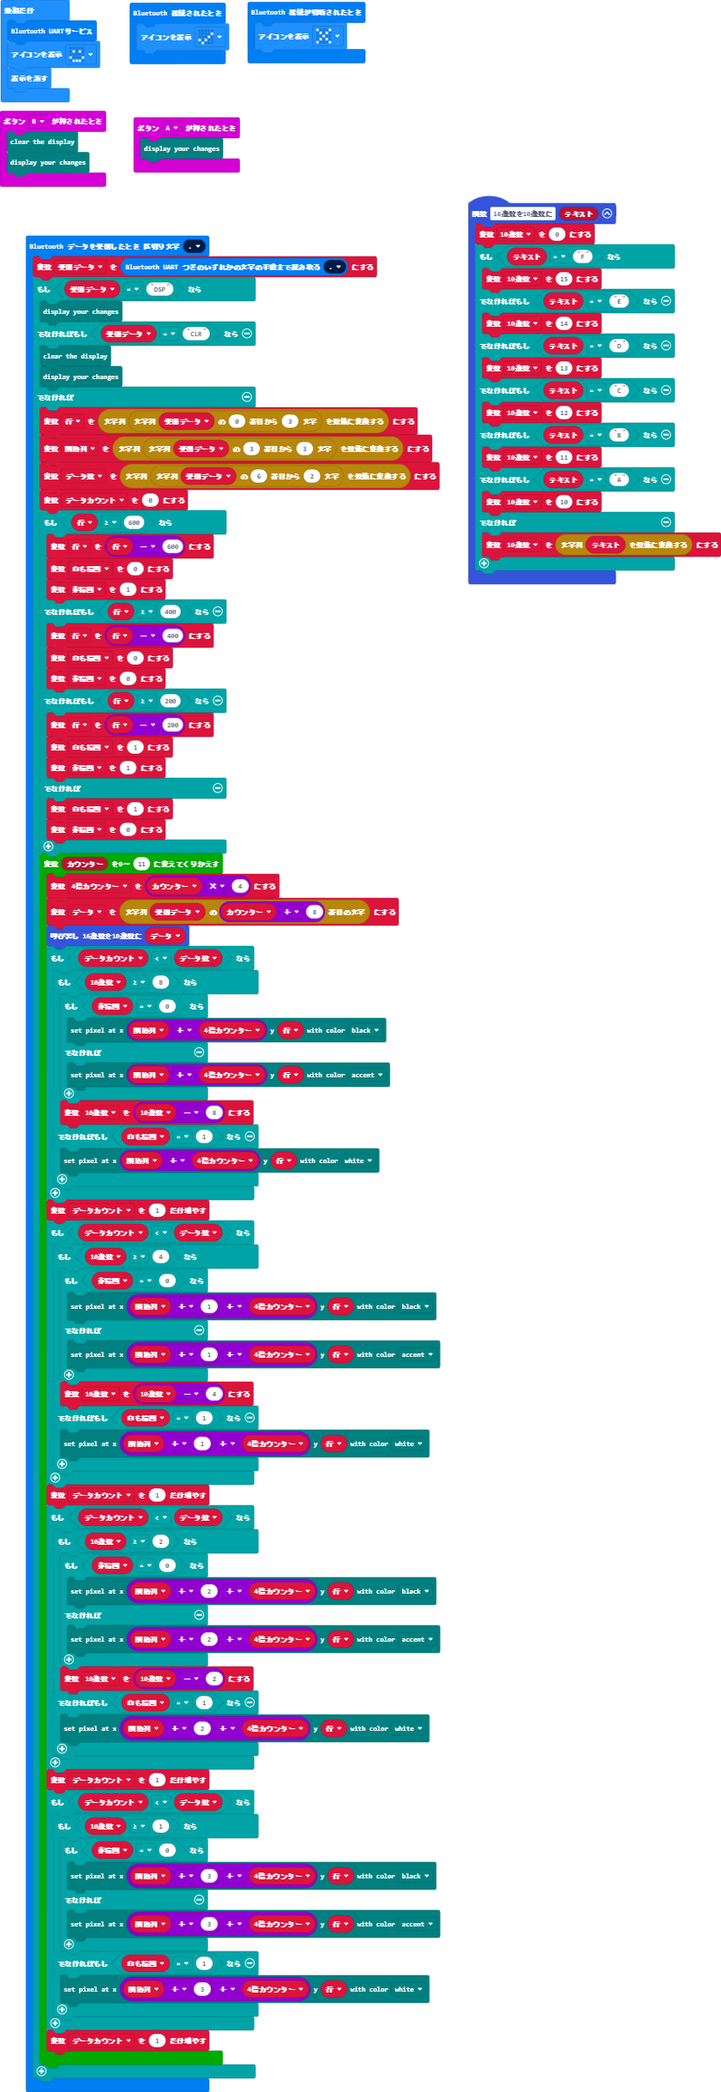
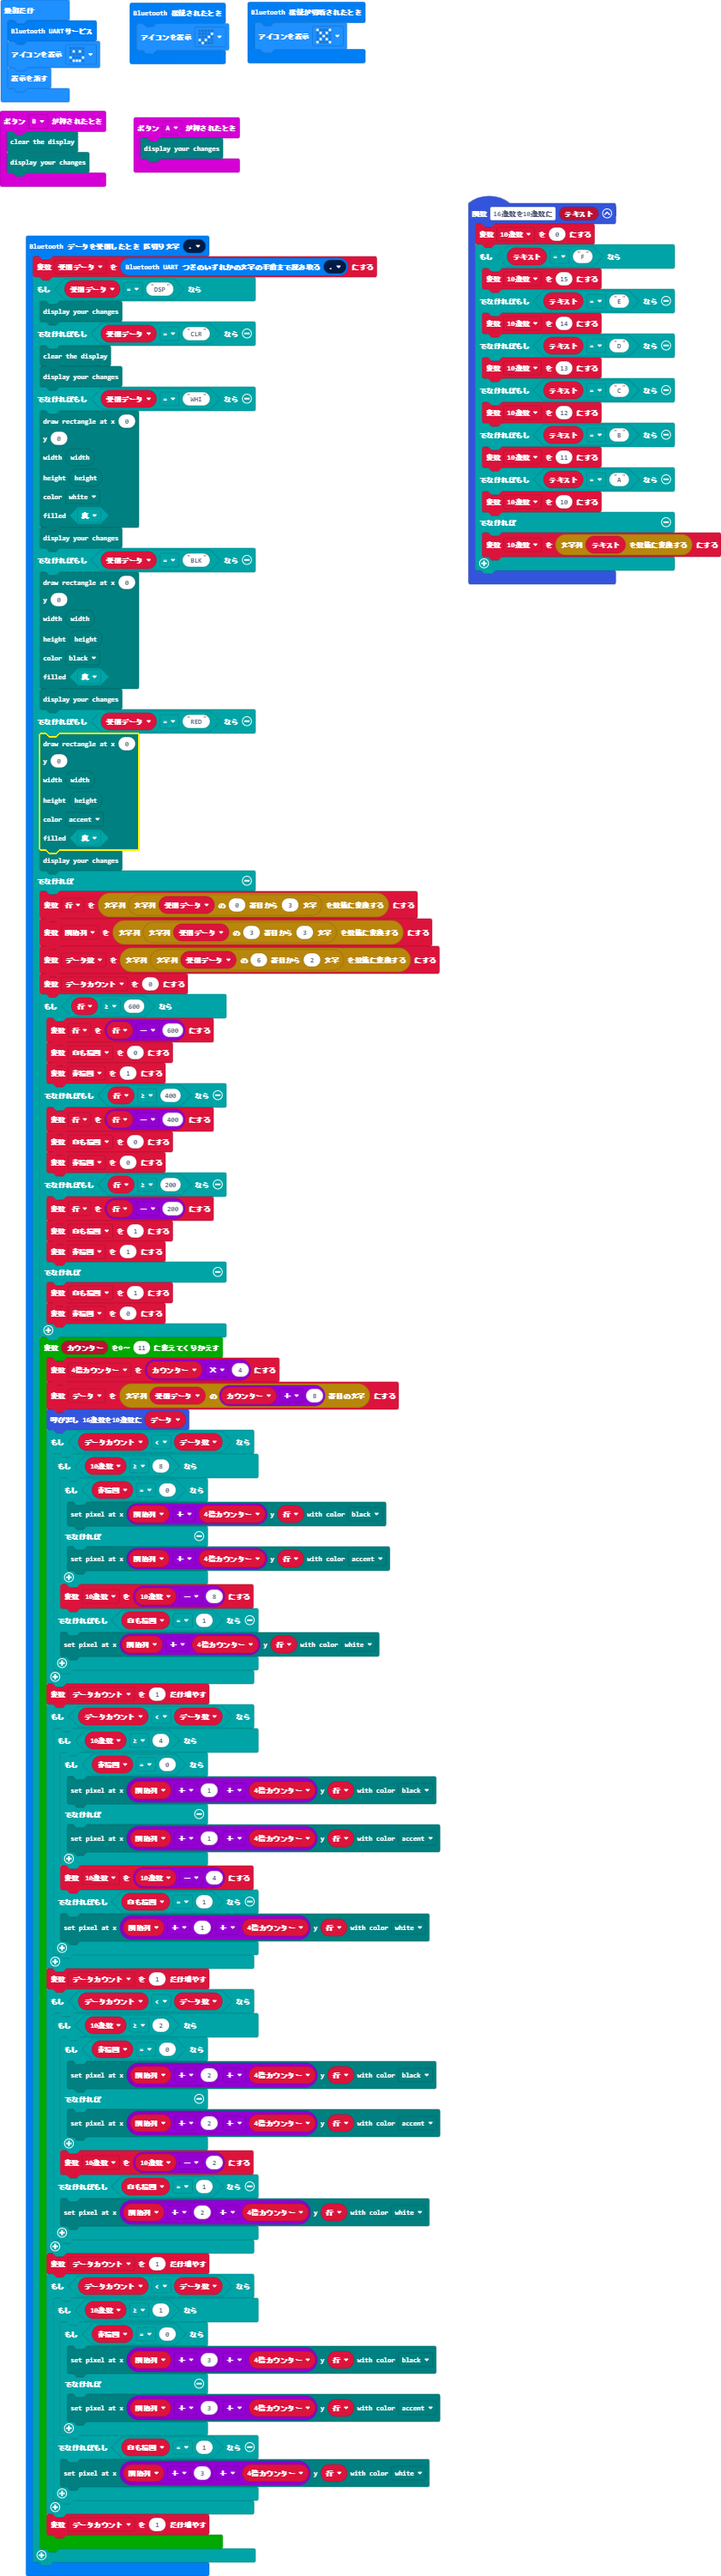
更新 main.blocks, main.ts

diff --git a/main.ts b/main.ts
@@ -14,6 +14,36 @@ bluetooth.onUartDataReceived(serial.delimiters(Delimiters.Fullstop), function ()
     } else if (受信データ == "CLR") {
         inkybit.clear()
         inkybit.show()
+    } else if (受信データ == "WHI") {
+        inkybit.drawRectangle(
+        0,
+        0,
+        inkybit.width(),
+        inkybit.height(),
+        inkybit.Color.White,
+        true
+        )
+        inkybit.show()
+    } else if (受信データ == "BLK") {
+        inkybit.drawRectangle(
+        0,
+        0,
+        inkybit.width(),
+        inkybit.height(),
+        inkybit.Color.Black,
+        true
+        )
+        inkybit.show()
+    } else if (受信データ == "RED") {
+        inkybit.drawRectangle(
+        0,
+        0,
+        inkybit.width(),
+        inkybit.height(),
+        inkybit.Color.Accent,
+        true
+        )
+        inkybit.show()
     } else {
         行 = parseFloat(受信データ.substr(0, 3))
         開始列 = parseFloat(受信データ.substr(3, 3))
